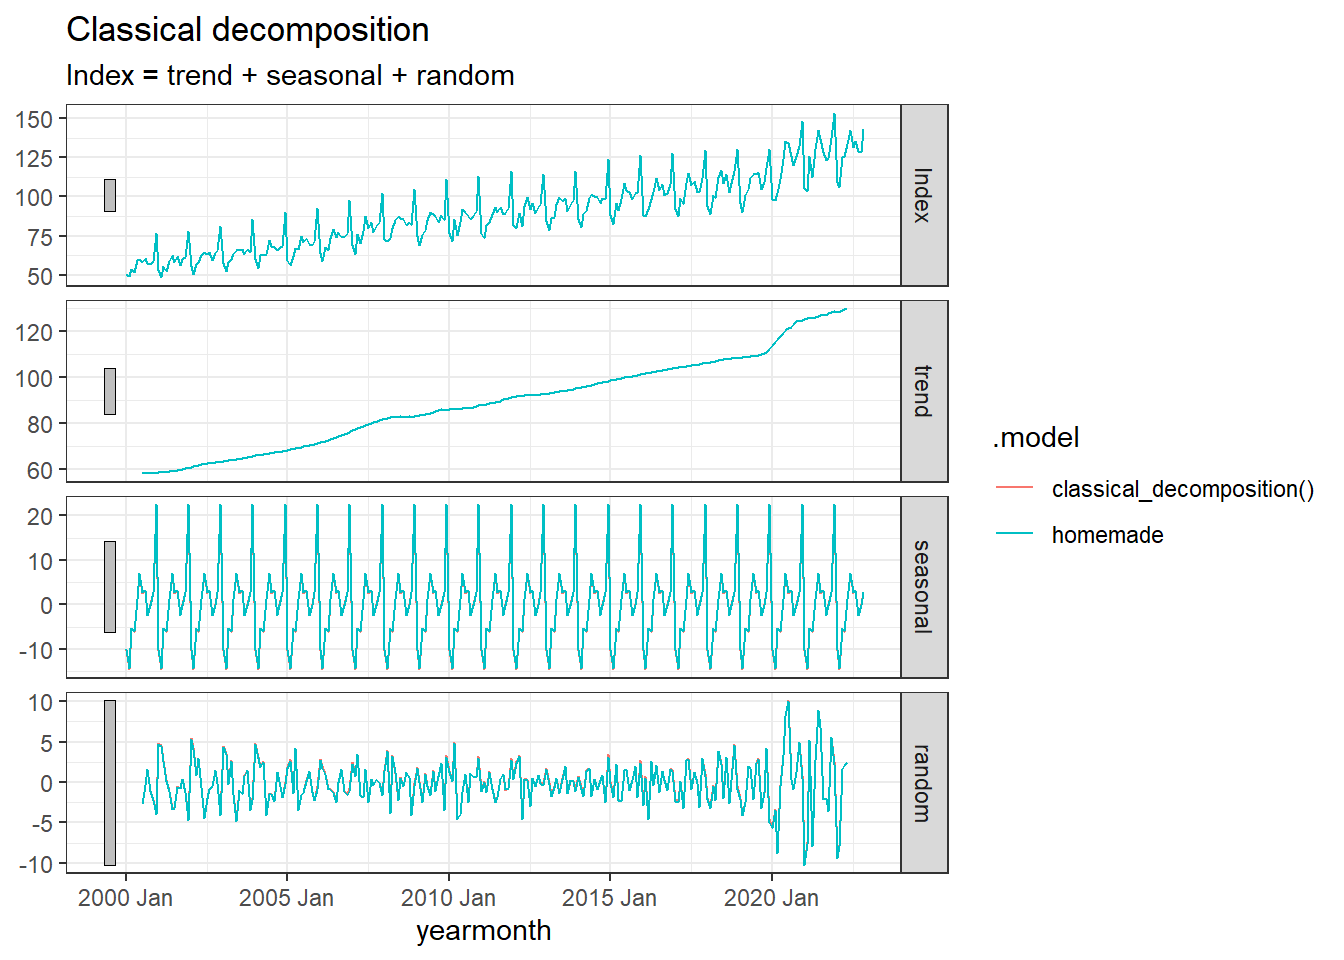
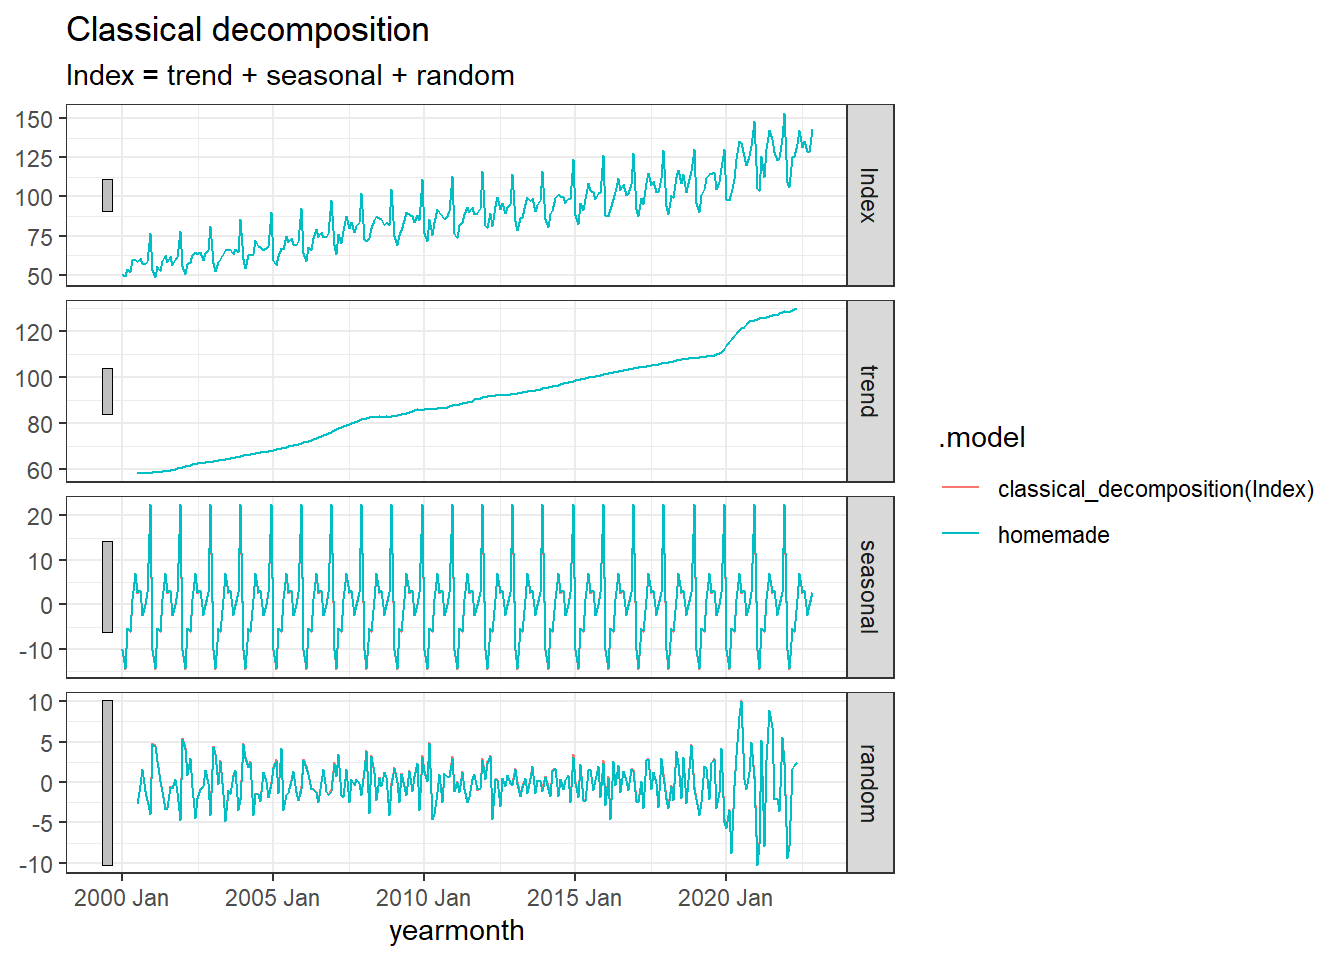
bugfix

diff --git a/docs/3_exercises.html b/docs/3_exercises.html
@@ -629,25 +629,27 @@ Solution
 </div>
 </details>
 <ol start="6" type="1">
-<li>Implement the classical decomposition method for the [Norwegian Wholesale and Retails sales index}(https://github.com/holleland/BAN430/raw/master/data/wholesale_and_retails_index_norway.rds).</li>
+<li>Implement the classical decomposition method for the <a href="https://github.com/holleland/BAN430/raw/master/data/wholesale_and_retails_index_norway.rds">Norwegian Wholesale and Retails sales index</a>.</li>
 </ol>
 <details>
 <summary>
 Solution
 </summary>
 <div class="cell">
-<div class="sourceCode cell-code" id="cb21"><pre class="sourceCode r code-with-copy"><code class="sourceCode r"><span id="cb21-1"><a href="#cb21-1" aria-hidden="true" tabindex="-1"></a>wholesale  <span class="ot">&lt;-</span> <span class="fu">readRDS</span>(<span class="at">file=</span> <span class="st">"data/wholesale_and_retails_index_norway.rds"</span>)</span>
-<span id="cb21-2"><a href="#cb21-2" aria-hidden="true" tabindex="-1"></a></span>
-<span id="cb21-3"><a href="#cb21-3" aria-hidden="true" tabindex="-1"></a>classic_decomp <span class="ot">&lt;-</span> wholesale <span class="sc">%&gt;%</span> </span>
-<span id="cb21-4"><a href="#cb21-4" aria-hidden="true" tabindex="-1"></a>  <span class="fu">rename</span>(<span class="at">Index =</span> <span class="st">`</span><span class="at">Wholesale and retail sales index</span><span class="st">`</span>) <span class="sc">%&gt;%</span></span>
-<span id="cb21-5"><a href="#cb21-5" aria-hidden="true" tabindex="-1"></a>  <span class="fu">mutate</span>(<span class="st">`</span><span class="at">12-MA</span><span class="st">`</span> <span class="ot">=</span> slider<span class="sc">::</span><span class="fu">slide_dbl</span>(Index, mean, <span class="at">.before =</span> <span class="dv">5</span>, <span class="at">.after =</span> <span class="dv">6</span>, <span class="at">.complete =</span> <span class="cn">TRUE</span>),</span>
-<span id="cb21-6"><a href="#cb21-6" aria-hidden="true" tabindex="-1"></a>         <span class="at">trend =</span> slider<span class="sc">::</span><span class="fu">slide_dbl</span>(<span class="st">`</span><span class="at">12-MA</span><span class="st">`</span>, mean, <span class="at">.before =</span> <span class="dv">1</span>, <span class="at">.after =</span> <span class="dv">0</span>, <span class="at">.complete =</span> <span class="cn">TRUE</span>), <span class="co">#`2x12-MA`</span></span>
-<span id="cb21-7"><a href="#cb21-7" aria-hidden="true" tabindex="-1"></a>         <span class="at">detrend =</span> Index <span class="sc">-</span> trend,</span>
-<span id="cb21-8"><a href="#cb21-8" aria-hidden="true" tabindex="-1"></a>         <span class="at">MONTH =</span> <span class="fu">month</span>(yearmonth)</span>
-<span id="cb21-9"><a href="#cb21-9" aria-hidden="true" tabindex="-1"></a>         )  <span class="sc">%&gt;%</span> </span>
-<span id="cb21-10"><a href="#cb21-10" aria-hidden="true" tabindex="-1"></a>  <span class="fu">group_by</span>(MONTH) <span class="sc">%&gt;%</span></span>
-<span id="cb21-11"><a href="#cb21-11" aria-hidden="true" tabindex="-1"></a>  <span class="fu">mutate</span>(<span class="at">season =</span> <span class="fu">mean</span>(detrend, <span class="at">na.rm=</span>T)) <span class="sc">%&gt;%</span></span>
-<span id="cb21-12"><a href="#cb21-12" aria-hidden="true" tabindex="-1"></a>  <span class="fu">ungroup</span>()</span></code><button title="Copy to Clipboard" class="code-copy-button"><i class="bi"></i></button></pre></div>
+<div class="sourceCode cell-code" id="cb21"><pre class="sourceCode r code-with-copy"><code class="sourceCode r"><span id="cb21-1"><a href="#cb21-1" aria-hidden="true" tabindex="-1"></a><span class="co"># Load the data: </span></span>
+<span id="cb21-2"><a href="#cb21-2" aria-hidden="true" tabindex="-1"></a>wholesale  <span class="ot">&lt;-</span> <span class="fu">readRDS</span>(<span class="at">file=</span> <span class="st">"data/wholesale_and_retails_index_norway.rds"</span>)</span>
+<span id="cb21-3"><a href="#cb21-3" aria-hidden="true" tabindex="-1"></a></span>
+<span id="cb21-4"><a href="#cb21-4" aria-hidden="true" tabindex="-1"></a><span class="co"># Home-made classical decomposition: </span></span>
+<span id="cb21-5"><a href="#cb21-5" aria-hidden="true" tabindex="-1"></a>classic_decomp <span class="ot">&lt;-</span> wholesale <span class="sc">%&gt;%</span> </span>
+<span id="cb21-6"><a href="#cb21-6" aria-hidden="true" tabindex="-1"></a>  <span class="fu">rename</span>(<span class="at">Index =</span> <span class="st">`</span><span class="at">Wholesale and retail sales index</span><span class="st">`</span>) <span class="sc">%&gt;%</span></span>
+<span id="cb21-7"><a href="#cb21-7" aria-hidden="true" tabindex="-1"></a>  <span class="fu">mutate</span>(<span class="st">`</span><span class="at">12-MA</span><span class="st">`</span> <span class="ot">=</span> slider<span class="sc">::</span><span class="fu">slide_dbl</span>(Index, mean, <span class="at">.before =</span> <span class="dv">5</span>, <span class="at">.after =</span> <span class="dv">6</span>, <span class="at">.complete =</span> <span class="cn">TRUE</span>),</span>
+<span id="cb21-8"><a href="#cb21-8" aria-hidden="true" tabindex="-1"></a>         <span class="at">trend =</span> slider<span class="sc">::</span><span class="fu">slide_dbl</span>(<span class="st">`</span><span class="at">12-MA</span><span class="st">`</span>, mean, <span class="at">.before =</span> <span class="dv">1</span>, <span class="at">.after =</span> <span class="dv">0</span>, <span class="at">.complete =</span> <span class="cn">TRUE</span>), <span class="co">#`2x12-MA` TREND ESTIMATE</span></span>
+<span id="cb21-9"><a href="#cb21-9" aria-hidden="true" tabindex="-1"></a>         <span class="at">detrend =</span> Index <span class="sc">-</span> trend,</span>
+<span id="cb21-10"><a href="#cb21-10" aria-hidden="true" tabindex="-1"></a>         <span class="at">MONTH =</span> <span class="fu">month</span>(yearmonth)</span>
+<span id="cb21-11"><a href="#cb21-11" aria-hidden="true" tabindex="-1"></a>         )  <span class="sc">%&gt;%</span> </span>
+<span id="cb21-12"><a href="#cb21-12" aria-hidden="true" tabindex="-1"></a>  <span class="fu">group_by</span>(MONTH) <span class="sc">%&gt;%</span></span>
+<span id="cb21-13"><a href="#cb21-13" aria-hidden="true" tabindex="-1"></a>  <span class="fu">mutate</span>(<span class="at">season =</span> <span class="fu">mean</span>(detrend, <span class="at">na.rm=</span>T)) <span class="sc">%&gt;%</span> <span class="co"># SEASON ESTIMATE</span></span>
+<span id="cb21-14"><a href="#cb21-14" aria-hidden="true" tabindex="-1"></a>  <span class="fu">ungroup</span>()</span></code><button title="Copy to Clipboard" class="code-copy-button"><i class="bi"></i></button></pre></div>
 </div>
 <p>To adjust the seasonal component to sum-to-zero, we update it as <span class="math display">S_t^\star = S_t - |S_t| \cdot \frac{\sum_s S_s}{\sum_s |S_s|}.</span></p>
 <div class="cell">
@@ -657,38 +659,29 @@ Solution
 <span id="cb22-4"><a href="#cb22-4" aria-hidden="true" tabindex="-1"></a>classic_decomp <span class="ot">&lt;-</span> classic_decomp <span class="sc">%&gt;%</span> </span>
 <span id="cb22-5"><a href="#cb22-5" aria-hidden="true" tabindex="-1"></a>  <span class="fu">mutate</span>(<span class="at">seasonal =</span> season <span class="sc">-</span> <span class="fu">abs</span>(season)<span class="sc">*</span>S<span class="sc">/</span>A) <span class="sc">%&gt;%</span> </span>
 <span id="cb22-6"><a href="#cb22-6" aria-hidden="true" tabindex="-1"></a><span class="co"># Calculate remainder R = Y - T - S</span></span>
-<span id="cb22-7"><a href="#cb22-7" aria-hidden="true" tabindex="-1"></a>  <span class="fu">mutate</span>(<span class="at">random =</span> Index <span class="sc">-</span> trend <span class="sc">-</span> seasonal) <span class="sc">%&gt;%</span></span>
+<span id="cb22-7"><a href="#cb22-7" aria-hidden="true" tabindex="-1"></a>  <span class="fu">mutate</span>(<span class="at">random =</span> Index <span class="sc">-</span> trend <span class="sc">-</span> seasonal) <span class="sc">%&gt;%</span> <span class="co"># REMAINDER</span></span>
 <span id="cb22-8"><a href="#cb22-8" aria-hidden="true" tabindex="-1"></a>  <span class="fu">ungroup</span>() <span class="sc">%&gt;%</span></span>
 <span id="cb22-9"><a href="#cb22-9" aria-hidden="true" tabindex="-1"></a>  <span class="fu">select</span>(yearmonth, Index, trend, seasonal, random) <span class="sc">%&gt;%</span></span>
 <span id="cb22-10"><a href="#cb22-10" aria-hidden="true" tabindex="-1"></a>  <span class="fu">mutate</span>(<span class="at">.model =</span> <span class="st">"homemade"</span>)</span>
 <span id="cb22-11"><a href="#cb22-11" aria-hidden="true" tabindex="-1"></a><span class="co"># Plot results: </span></span>
 <span id="cb22-12"><a href="#cb22-12" aria-hidden="true" tabindex="-1"></a>classic_decomp <span class="sc">%&gt;%</span> </span>
 <span id="cb22-13"><a href="#cb22-13" aria-hidden="true" tabindex="-1"></a>  <span class="fu">pivot_longer</span>(<span class="at">cols =</span><span class="fu">c</span>(<span class="sc">-</span>yearmonth,<span class="sc">-</span>.model)) <span class="sc">%&gt;%</span></span>
-<span id="cb22-14"><a href="#cb22-14" aria-hidden="true" tabindex="-1"></a>  <span class="fu">mutate</span>(<span class="at">name =</span> <span class="fu">factor</span>(name, <span class="at">levels =</span> <span class="fu">c</span>(<span class="st">"Index"</span>, <span class="st">"trend"</span>, <span class="st">"seasonal"</span>, <span class="st">"random"</span>))) <span class="sc">%&gt;%</span></span>
-<span id="cb22-15"><a href="#cb22-15" aria-hidden="true" tabindex="-1"></a><span class="fu">ggplot</span>(<span class="fu">aes</span>(<span class="at">x=</span> yearmonth, <span class="at">y =</span> value))<span class="sc">+</span><span class="fu">geom_line</span>()<span class="sc">+</span></span>
-<span id="cb22-16"><a href="#cb22-16" aria-hidden="true" tabindex="-1"></a><span class="fu">facet_wrap</span>( <span class="sc">~</span> name, <span class="at">ncol =</span> <span class="dv">1</span>, <span class="at">scales =</span> <span class="st">"free_y"</span>)</span></code><button title="Copy to Clipboard" class="code-copy-button"><i class="bi"></i></button></pre></div>
-<div class="cell-output cell-output-stderr">
-<pre><code>Warning: Removed 6 rows containing missing values (`geom_line()`).</code></pre>
-</div>
+<span id="cb22-14"><a href="#cb22-14" aria-hidden="true" tabindex="-1"></a>  <span class="fu">mutate</span>(<span class="at">name =</span> <span class="fu">factor</span>(name, </span>
+<span id="cb22-15"><a href="#cb22-15" aria-hidden="true" tabindex="-1"></a>                       <span class="at">levels =</span> <span class="fu">c</span>(<span class="st">"Index"</span>, <span class="st">"trend"</span>, <span class="st">"seasonal"</span>, <span class="st">"random"</span>))) <span class="sc">%&gt;%</span></span>
+<span id="cb22-16"><a href="#cb22-16" aria-hidden="true" tabindex="-1"></a><span class="fu">ggplot</span>(<span class="fu">aes</span>(<span class="at">x=</span> yearmonth, <span class="at">y =</span> value))<span class="sc">+</span><span class="fu">geom_line</span>()<span class="sc">+</span></span>
+<span id="cb22-17"><a href="#cb22-17" aria-hidden="true" tabindex="-1"></a><span class="fu">facet_wrap</span>( <span class="sc">~</span> name, <span class="at">ncol =</span> <span class="dv">1</span>, <span class="at">scales =</span> <span class="st">"free_y"</span>)</span></code><button title="Copy to Clipboard" class="code-copy-button"><i class="bi"></i></button></pre></div>
 <div class="cell-output-display">
 <p><img src="3_exercises_files/figure-html/unnamed-chunk-9-1.png" class="img-fluid" width="672"></p>
 </div>
-<div class="sourceCode cell-code" id="cb24"><pre class="sourceCode r code-with-copy"><code class="sourceCode r"><span id="cb24-1"><a href="#cb24-1" aria-hidden="true" tabindex="-1"></a><span class="co"># Let's compare with the automatic one: </span></span>
-<span id="cb24-2"><a href="#cb24-2" aria-hidden="true" tabindex="-1"></a>wholesale <span class="sc">%&gt;%</span> </span>
-<span id="cb24-3"><a href="#cb24-3" aria-hidden="true" tabindex="-1"></a>  <span class="fu">rename</span>(<span class="at">Index =</span> <span class="st">`</span><span class="at">Wholesale and retail sales index</span><span class="st">`</span>) <span class="sc">%&gt;%</span></span>
-<span id="cb24-4"><a href="#cb24-4" aria-hidden="true" tabindex="-1"></a>  <span class="fu">model</span>(</span>
-<span id="cb24-5"><a href="#cb24-5" aria-hidden="true" tabindex="-1"></a>    <span class="fu">classical_decomposition</span>()</span>
-<span id="cb24-6"><a href="#cb24-6" aria-hidden="true" tabindex="-1"></a>  ) <span class="sc">%&gt;%</span></span>
-<span id="cb24-7"><a href="#cb24-7" aria-hidden="true" tabindex="-1"></a>  <span class="fu">components</span>() <span class="sc">%&gt;%</span> </span>
-<span id="cb24-8"><a href="#cb24-8" aria-hidden="true" tabindex="-1"></a>  <span class="fu">bind_rows</span>(classic_decomp) <span class="sc">%&gt;%</span> </span>
-<span id="cb24-9"><a href="#cb24-9" aria-hidden="true" tabindex="-1"></a>  <span class="fu">autoplot</span>()</span></code><button title="Copy to Clipboard" class="code-copy-button"><i class="bi"></i></button></pre></div>
-<div class="cell-output cell-output-stderr">
-<pre><code>Model not specified, defaulting to automatic modelling of the `Index` variable.
-Override this using the model formula.</code></pre>
-</div>
-<div class="cell-output cell-output-stderr">
-<pre><code>Warning: Removed 12 rows containing missing values (`geom_line()`).</code></pre>
-</div>
+<div class="sourceCode cell-code" id="cb23"><pre class="sourceCode r code-with-copy"><code class="sourceCode r"><span id="cb23-1"><a href="#cb23-1" aria-hidden="true" tabindex="-1"></a><span class="co"># Let's compare with the automatic one: </span></span>
+<span id="cb23-2"><a href="#cb23-2" aria-hidden="true" tabindex="-1"></a>wholesale <span class="sc">%&gt;%</span> </span>
+<span id="cb23-3"><a href="#cb23-3" aria-hidden="true" tabindex="-1"></a>  <span class="fu">rename</span>(<span class="at">Index =</span> <span class="st">`</span><span class="at">Wholesale and retail sales index</span><span class="st">`</span>) <span class="sc">%&gt;%</span></span>
+<span id="cb23-4"><a href="#cb23-4" aria-hidden="true" tabindex="-1"></a>  <span class="fu">model</span>(</span>
+<span id="cb23-5"><a href="#cb23-5" aria-hidden="true" tabindex="-1"></a>    <span class="fu">classical_decomposition</span>(Index)</span>
+<span id="cb23-6"><a href="#cb23-6" aria-hidden="true" tabindex="-1"></a>  ) <span class="sc">%&gt;%</span></span>
+<span id="cb23-7"><a href="#cb23-7" aria-hidden="true" tabindex="-1"></a>  <span class="fu">components</span>() <span class="sc">%&gt;%</span> </span>
+<span id="cb23-8"><a href="#cb23-8" aria-hidden="true" tabindex="-1"></a>  <span class="fu">bind_rows</span>(classic_decomp) <span class="sc">%&gt;%</span> </span>
+<span id="cb23-9"><a href="#cb23-9" aria-hidden="true" tabindex="-1"></a>  <span class="fu">autoplot</span>()</span></code><button title="Copy to Clipboard" class="code-copy-button"><i class="bi"></i></button></pre></div>
 <div class="cell-output-display">
 <p><img src="3_exercises_files/figure-html/unnamed-chunk-9-2.png" class="img-fluid" width="672"></p>
 </div>
